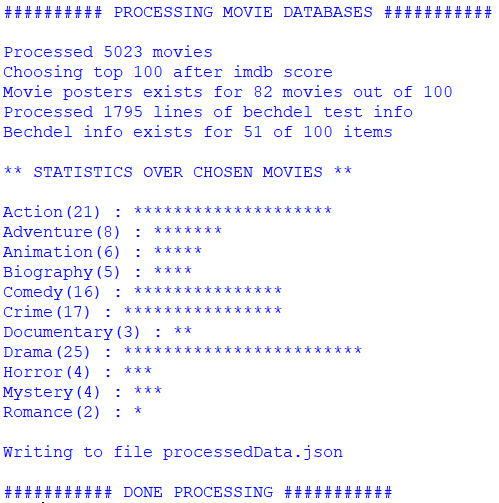
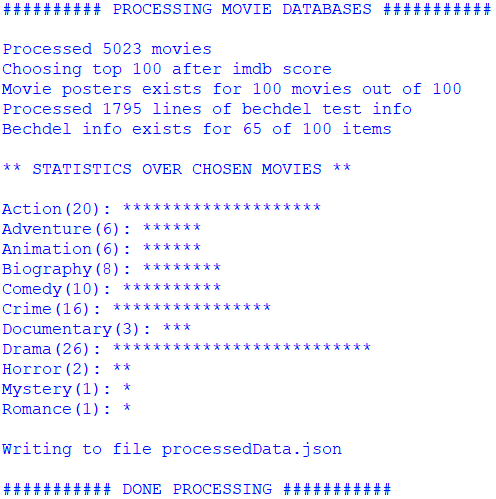
Fixes #2

diff --git a/js/sunburst.js b/js/sunburst.js
@@ -1,4 +1,4 @@
-
+//Creates a sunburst chart from movie data
 function sunburst(theData) {
 
   var chartData = theData;
@@ -48,10 +48,10 @@ function sunburst(theData) {
     });
 
   //start rendering   
-  generateStarBurst(chartData);
+  generateSunBurst(chartData);
 
-  // Main function to draw graph and set up the visualization, once we have the data.
-  function generateStarBurst(json) {
+  // Main function to draw graph
+  function generateSunBurst(json) {
 
     var nodes = partition.nodes(json)
       .filter(function (d) {
@@ -191,17 +191,15 @@ function sunburst(theData) {
       .attr("dy", function (d) { return d.dy; });
   };
 
-  var x = document.getElementById("centerImage");
-  var oldstyle = [];
-
-
   // ************************ HOVER AND UNHOVER OVER GENRE TEXTS ******************************** //
 
   //Hover function for hovering over genres
   function mouseoverGenre(genreText) {
-    d3.select(this).style("cursor", "pointer");
+
+    d3.select(this).style("cursor", "pointer"); //Mouse hover pointer
     oldstyle = [];
 
+    // Highlight the current genre
     var genrePath = document.getElementById(genreText.name);
     genrePath.style.stroke = "#4687AB";
 
@@ -215,6 +213,7 @@ function sunburst(theData) {
 
     chosenText.style.fill = "#4687AB"
 
+    // Get all circles corresponding to the chosen genre
     var elementsCircle = document.getElementsByTagName("circle");
 
     for (var j = 0; j < chartData.children.length; j++) {
@@ -236,6 +235,8 @@ function sunburst(theData) {
   };
 
   function mouseleaveGenre(genreText) {
+
+    //Reset genre text and path to white
     var genreTexts = document.getElementsByTagName("textPath")
     for (var i = 0; i < genreTexts.length; i++) {
       if (genreTexts[i].href.baseVal == "#" + genreText.name) {
@@ -246,9 +247,9 @@ function sunburst(theData) {
 
     var genrePath = document.getElementById(genreText.name);
     genrePath.style.stroke = "#fff";
-
     chosenText.style.fill = "#fff"
 
+    // Reset all circles corresponding to the chosen genre to the state they were in before
     var elementsCircle = document.getElementsByTagName("circle");
 
     for (var j = 0; j < chartData.children.length; j++) {
@@ -273,7 +274,6 @@ function sunburst(theData) {
 
   // ************************ HOVER AND UNHOVER OVER SINGLE MOVIES TEXTS ******************************** //
 
-  //Fix mouseover effect (details on demand)
   function mouseover(d) {
     d3.select(this).style("cursor", "pointer");
 
@@ -288,12 +288,14 @@ function sunburst(theData) {
 
     saveIt.style.opacity = "1.0"
 
+    //Change middle element to the selected hovered poster
     var elem = document.getElementById('centerImage')
-    elem.style.backgroundImage = "url(https://raw.githubusercontent.com/jklintan/Visualizing-Women-In-Movies/master/data/images/" + d.PosterImage + ")"; 
+    elem.style.backgroundImage = "url(https://raw.githubusercontent.com/jklintan/Visualizing-Women-In-Movies/master/data/images/" + d.PosterImage + ")";
     elem.style.width = "150px";
     elem.style.height = "150px";
     elem.style.borderRadius = "50%";
 
+    //Display legend with more details of movie
     legend.style.visibility = "visible";
     var textTitle = d.Title.toUpperCase();
     var titlen = document.getElementsByTagName("h1");
@@ -329,12 +331,11 @@ function sunburst(theData) {
       colorExtra.style.backgroundColor = "#de9b30"
     }
 
+    //Position legend according to quadrant
     var coordinates = d3.mouse(this);
     var posMargin = (width / 2 + Math.floor(coordinates[0])) + 10;
     var posMargin2 = (height / 2 + Math.floor(coordinates[1])) + 10;
-    //legend.style.margin =  posMargin2 + "px " + posMargin + "px " ;
-    // legend.translate.x = posMargin;
-    console.log(coordinates[0])
+
     if (coordinates[1] < 0) {
       legend.style.marginTop = posMargin2 - 200 + "px";
     } else {
@@ -347,18 +348,18 @@ function sunburst(theData) {
       legend.style.marginLeft = posMargin + 150 + "px";
     }
 
-
   }
 
   // Restore everything to full opacity when moving off the visualization.
   function mouseleave(d) {
     d3.select(this).style("cursor", "default");
     var legenden = document.getElementById("legend");
+
+    //Reset legend
     legenden.getElementsByTagName('h1')[0].innerHTML = "";
     legenden.style.marginTop = "0";
     legenden.style.marginLeft = "0";
     legenden.style.visibility = "hidden";
-
 
     var bechdelInfo = document.getElementsByClassName("bechdelInfo")
     bechdelInfo[0].innerHTML = "";
@@ -391,7 +392,7 @@ function sunburst(theData) {
     return (d.x + (d.dx) / 2) * 180 / Math.PI - 90;
   }
 
-  //calculate the position of bubble
+  //calculate the position of movie circles
   function getMovieCircleData(d, i) {
     if (d.Year <= startYear) {
       return arc.centroid(d)[i] * 1.0;
@@ -405,7 +406,7 @@ function sunburst(theData) {
   }
 }
 
-// ************************ SHOW AND HIDE BECHDEL INFO ******************************** //
+// ************************ SHOW AND HIDE BECHDEL INFO IN MENU SECTION ******************************** //
 
 function showBechdelInfo(mouse) {
   var bechdelLegend = document.getElementById("bechdelInfoLegend");

diff --git a/js/filtering.js b/js/filtering.js
@@ -45,60 +45,4 @@ function changeColor(c, button) {
       }
     }
   }
-
-/*
-  //Check and uncheck the button
-  if (button.className == "btn pass active" || button.className == "btn fail active" || button.className == "btn unknown active") {
-    button.className = "btn"
-  } else {
-    button.className = "btn active"
-  }
-
-  //If not checked, reset all to original color
-  if (button.className == "btn") {
-    if (c == "1") {
-      button.className = "btn pass"
-      for (i = 0; i < pass.length; i++) {
-        pass[i].style.fill = "#fff";
-      }
-    }
-    if (c == "0") {
-      button.className = "btn fail"
-      for (i = 0; i < fails.length; i++) {
-
-        fails[i].style.fill = "#fff";
-      }
-    }
-    if (c == "N/A") {
-      button.className = "btn unknown"
-      for (i = 0; i < unknown.length; i++) {
-        unknown[i].style.fill = "	#fff";
-      }
-    }
-  }
-
-  //Set color of button according to passing/failing/unknown
-  if (button.className == "btn active") {
-    if (c == "0") {
-      button.className = "btn fail active"
-      for (i = 0; i < fails.length; i++) {
-
-        fails[i].style.fill = "#992617";
-      }
-    }
-    if (c == "1") {
-      button.className = "btn pass active"
-      for (i = 0; i < pass.length; i++) {
-        pass[i].style.fill = "#228043";
-      }
-    }
-
-    if (c == "N/A") {
-      button.className = "btn unknown active"
-      for (i = 0; i < unknown.length; i++) {
-        unknown[i].style.fill = "#946923";
-      }
-    }
-  }*/
-
 };

diff --git a/index.html b/index.html
@@ -22,7 +22,7 @@
                     </p>
                     <p class="title-text">Datasets</p>
                     <p class="datasets"><a href="https://www.kaggle.com/carolzhangdc/imdb-5000-movie-dataset">IMDB data , </a>
-                    <a href="https://data.world/fivethirtyeight/bechdel " >Bechdel data</a></p>
+                    <a href="https://data.world/fivethirtyeight/bechdel ">Bechdel data</a></p>
                     <p class= "title-text">Gross income</p>
                     <div id="circles">
                         <span class="circle1"></span></span><span class="circle2"></span><span class="circle3"></span>
@@ -69,10 +69,11 @@
                     <div id="legendfloat">
                         <div id="centerImage">
                         </div>
-                    </div>
-                    
+                    </div>             
                 </div>
-                <svg></svg>
+
+                <svg></svg> 
+
             </div>
         </div>
     </body>

diff --git a/js/main.js b/js/main.js
@@ -1,5 +1,4 @@
-
-
+//Loading movie data and creating the sunburst graph
 d3.json('./data/processedData.json', function(data){
 
   var sunburstGraph;

diff --git a/datamining.py b/datamining.py
@@ -80,7 +80,6 @@ uniqueID = 1
 genres = list()
 for item in strippedData:
     item['id'] = uniqueID
-    item['impact'] = 3
     uniqueID = uniqueID + 1
     if item['Genre'] in genres:
         genresID = 0
@@ -151,13 +150,24 @@ tempData = dict()
 genreID = 0
 first = 0
 listAllGenres = list()
+k = 0
+
+##Genres and statistics
+print("\n** STATISTICS OVER CHOSEN MOVIES **\n")
+
 for genre in genres:
     listGenre = list()
     for items in strippedData:
         if items['Genre'] == genres[genreID]:
             listGenre.append(items)
+            k = k + 1
     genreID = genreID + 1
     listAllGenres.append(listGenre)
+    stars = ""
+    for i in range(1,k):
+        stars = stars + "*"
+    print(genre + "(" + str(k-1) + "): " + stars)
+    k = 1
 
 genreID = 0
 templist = dict()
@@ -175,6 +185,6 @@ processedData['children'] = fullList
 with open('processedData.json', 'w', encoding='utf-8') as f:
     json.dump(processedData, f, ensure_ascii=False, indent=4)
 
-print("Writing to file processedData.json")    
+print("\nWriting to file processedData.json")    
 print("\n########### DONE PROCESSING ###########")
 
